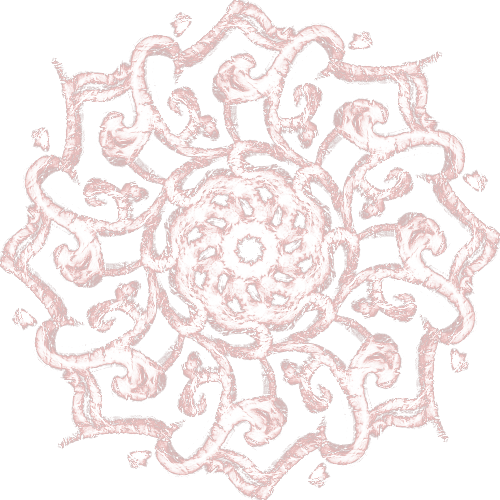
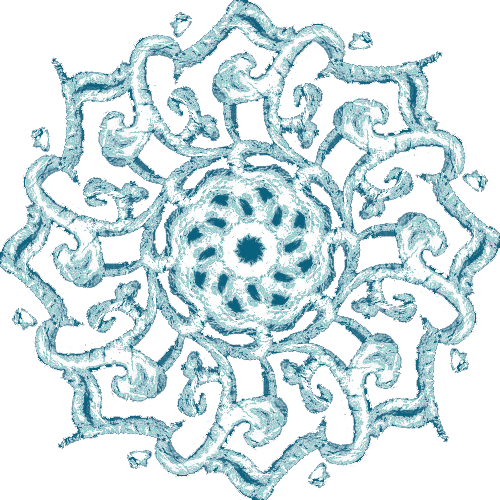
changing style for a better reading experience + renaming lace class

diff --git a/static/css/styles.css b/static/css/styles.css
@@ -1,11 +1,12 @@
 /* typography */
-@import url('https://fonts.googleapis.com/css?family=Asul|Open+Sans:400,700');
+@import url('https://fonts.googleapis.com/css?family=Alegreya:700,900|Open+Sans:400,700');
 
 h1, h2, h3, h4, a, .btns, .riddle {
-    font-family: 'Asul';
+    font-family: 'Alegreya';
+    font-weight:900;
 }
 
-h1, h2, a {
+h1, h2 {
     letter-spacing: 0.1em;
     text-shadow: -1px 0 #fff, 0 1px #fff, 1px 0 #fff, 0 -1px #fff;
 }
@@ -19,24 +20,25 @@ h4 {
 }
 
 h6 {
-    color: rgba(111, 103, 94, 0.37);
+    color: rgb(121, 184, 255);
     margin-top: 7px;
 }
 
 a, a:visited, a:focus {
-    color: #0e7149;
+    color: #778866;
     text-decoration: none;
     text-transform: uppercase;
 }
 
 a:hover {
-    border-left: 1px solid #dc143c;
-    background-image: linear-gradient(to bottom, rgba(255, 227, 230, 0.2), rgba(225, 166, 166, 0.13));
+color:#000064;
+    text-decoration: underline wavy #7599C4;
 }
 
-p {
-    font-size: 1.125rem;
-    line-height: 1.8;
+p, li {
+    font-size: 1.125em;
+    line-height: calc(1.5em + .2vw);
+    margin: 22px auto;
 }
 
 nav {
@@ -78,8 +80,8 @@ body {
 }
 
 .container {
-    border-bottom: 4px solid #F5F5F5;
-    width: 85vw;
+
+    max-width:700px;
     height: 88vh;
     display: flex;
     flex-direction: column;
@@ -91,7 +93,7 @@ body {
     padding-left: 5%;
     padding-right: 5%;
     margin: auto;
-    background-color: rgba(245, 245, 245, 0.938);
+    background: radial-gradient(circle, rgb(245, 245, 245) 90%, rgba(192, 158, 121, 0.02))
 }
 
 .wrap ul, .wrap ul li, .navigation ul, .navigation ul li {
@@ -99,16 +101,34 @@ body {
     list-style: none;
 }
 
-.lace {
-    background: radial-gradient(circle, rgba(192, 158, 121, 0.07) 70%, rgba(207, 119, 62, 0.4)), url("/static/img/pattern2.png") fixed bottom;
+.selected {
+    background: radial-gradient(circle, rgba(192, 158, 121, 0.07) 50%, rgba(14, 113, 73, 0.4));
 }
 
 .border {
-    border: 6px double #0e7149;
+    border: 6px double #7599C4;
     padding: 10px;
 }
 
 /* ENDbody */
+
+/* Navigation */
+.navigation {
+    display: flex;
+    background-color: #F5F5F5;
+}
+
+.navigation > a {
+    width: 100px;
+    margin: 10px auto;
+    font-weight: bold;
+}
+
+.big-screen{
+    display:none;
+}
+/* ENDNavigation */
+
 /* images */
 .wrap img {
     max-width: 60%;
@@ -119,6 +139,7 @@ body {
 }
 
 /* ENDimages */
+/* Riddle */
 .riddle {
     font-size: 1.07em;
     font-weight: bold;
@@ -126,33 +147,26 @@ body {
     padding-top: 30px;
     padding-left: 10%;
     padding-right: 10%;
-    border: 2px dotted #0e7149;
+    border: 2px dotted #7599C4;
     background-color: rgba(174, 208, 157, 0.11);
 }
 
-.riddle, .chest, .tablecloth, .under_the_bed, .missing, .dining, .picture_couple, .painting_check, .room_view, .chessboard, .bookshelf, .clock_view, .paintings, .clock_inside {
+.riddle, .chest, .tablecloth, .under_the_bed, .missing,
+.dining, .picture_couple, .painting_check, .room_view,
+.chessboard, .bookshelf, .clock_view,
+.paintings, .clock_inside {
     display: none;
 }
 
-/* Navigation */
-.navigation {
-    display: flex;
-    background-color: #F5F5F5;
-    border-bottom: 4px solid #0e7149;
-}
 
-.navigation > a {
-    width: 90px;
-    margin: 10px auto;
-    font-weight: bold;
-}
-
+/* ENDRiddle */
 /* Buttons*/
 
 input {
     -webkit-appearance: none;
     -moz-appearance: none;
     appearance: none;
+
 }
 
 .wrap li button {
@@ -162,25 +176,35 @@ input {
 .btns, input {
 
     display: block;
-    border: 1px solid #6f675e;
     width: 70%;
     padding: 0 15px;
     margin: 10px auto;
     line-height: 34px;
     word-wrap: normal;
     font-weight: bold;
-    text-shadow: -1px 0 #fff, 0 1px #fff, 1px 0 #fff, 0 -1px #fff;
     text-transform: uppercase;
     white-space: pre-wrap;
+
+}
+.btns{
+    background-color: #aed09d;
+    border-bottom: 2px solid #778866;
+    border-top:none;
+    border-left:none;
+    border-right:none;
 }
 
 .btns:hover {
-    color: #f76072;
+    letter-spacing: 0.1em;
     background: linear-gradient(rgba(223, 220, 211, 0.047), rgba(223, 220, 211, 0.047));
 }
 
 .game_info {
     max-width: 200px;
+}
+
+.game-info:hover{
+    text-decoration: none;
 }
 
 .game_info--last {
@@ -189,17 +213,20 @@ input {
 
 .start {
     margin-bottom: 15px;
-    border: 4px solid #DC143C;
+    border: 4px double #778866;
 }
 
 #btn_riddle {
-    background-color: #dc143c;
+    background-color: #5599ff;
     color: white;
     margin-bottom: 10px;
-    text-shadow: -1px 0 #dc143c, 0 1px #dc143c, 1px 0 #dc143c, 0 -1px #dc143c;
+    font-weight:700;
+    text-shadow: -1px 0 2px #000064, 0 1px 2px #000064, 1px 0  2px #000064, 0 -1px 2px #000064;
+    border-bottom: 4px solid #79b8ff;
 }
 
 /* ENDButtons */
+
 /* Leaderboard */
 .leaderboard_entry {
     background-color: #F5F5F5;
@@ -212,10 +239,11 @@ input {
 }
 
 .leaderboard_top {
-    background-color: rgb(255, 184, 190);
+    background-color: rgba(187, 153, 170, 0.27);
 }
 
 /* ENDLeaderboard */
+
 /* Media Queries*/
 @media only screen and (min-width: 768px) {
     .paintings img {
@@ -228,7 +256,12 @@ input {
         max-width: 49%;
         margin: auto;
     }
-
+    .sm-screen{
+        display:none;
+    }
+    .big-screen{
+        display:block;
+    }
     .wrap {
         max-width: 700px;
     }

diff --git a/static/js/main.js b/static/js/main.js
@@ -5,7 +5,7 @@ $(function () {
     $('.btns').click(function () {
         let selector = $(this).data('toggle');
         $(selector).toggle();
-        $(this).toggleClass('lace');
+        $(this).toggleClass('selected');
     });
 
     // LEADERBOARD
